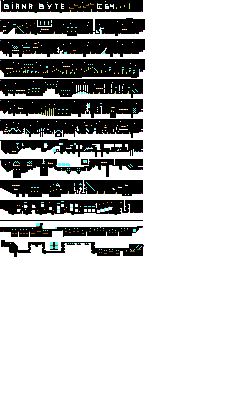
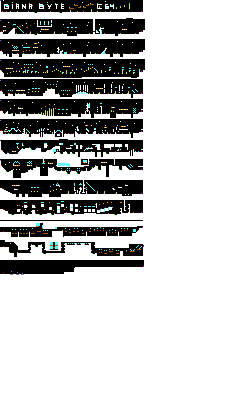
added fish and water

Changed region(s): [[0.0, 0.63, 0.6125, 0.69]]

diff --git a/core/src/com/mdinic/game/giana/MapRenderer.java b/core/src/com/mdinic/game/giana/MapRenderer.java
@@ -61,8 +61,6 @@ public class MapRenderer {
 
     Animation movingSpikesAnim;
 
-    // FPSLogger fps = new FPSLogger();
-
     java.util.Map<GoundMonsterType, Animation[]> groundMonsterAnimations = new HashMap<GoundMonsterType, Animation[]>();
 
     private BitmapFont font;
@@ -72,11 +70,13 @@ public class MapRenderer {
     java.util.Map<SimpleImageType, TextureRegion> simpleImageTextureRegions = new HashMap<SimpleImageType, TextureRegion>();
     private Animation treatBallRightAnim;
     private Animation treatBallLeftAnim;
-    private Animation piranhaAnim;
+    private Animation piranhaUpAnim;
+    private Animation piranhaDownAnim;
     private Animation waspRightAnim;
     private Animation waspLeftAnim;
     private Animation quicksandAnim;
     private Animation brickAnim;
+    private Animation waterAnim;
 
     public MapRenderer(Map map) {
         this.map = map;
@@ -116,6 +116,9 @@ public class MapRenderer {
         smallDiamondAnim = new Animation(0.1f, new TextureRegion(new Texture(
                 Gdx.files.internal("data/smalldiamond.png"))).split(8, 8)[0]);
 
+        waterAnim = new Animation(0.1f, new TextureRegion(new Texture(Gdx.files.internal("data/water.png"))).split(24,
+                12)[0]);
+
         Texture gianaTexture = new Texture(Gdx.files.internal("data/giana.png"));
         Texture diamondTexture = new Texture(Gdx.files.internal("data/diamond.png"));
         Texture treatboxTexture = new Texture(Gdx.files.internal("data/treatbox.png"));
@@ -137,10 +140,15 @@ public class MapRenderer {
 
         waspLeftAnim = new Animation(0.3f, waspRegionLeft);
 
-        TextureRegion[] piranhaRegion = new TextureRegion(new Texture(Gdx.files.internal("data/piranha.png"))).split(
-                20, 20)[0];
+        piranhaUpAnim = new Animation(0.2f,
+                new TextureRegion(new Texture(Gdx.files.internal("data/piranha.png"))).split(20, 20)[0]);
 
-        piranhaAnim = new Animation(0.2f, piranhaRegion);
+        TextureRegion[] piranhaDownRegion = new TextureRegion(new Texture(Gdx.files.internal("data/piranha.png")))
+                .split(20, 20)[0];
+        for (TextureRegion textureRegion : piranhaDownRegion) {
+            textureRegion.flip(false, true);
+        }
+        piranhaDownAnim = new Animation(0.2f, piranhaDownRegion);
 
         TextureRegion[] eyeRegionLeft = new TextureRegion(new Texture(Gdx.files.internal("data/eye.png")))
                 .split(24, 17)[0];
@@ -282,6 +290,7 @@ public class MapRenderer {
 
         renderSimpleImages();
         renderMovingSpikes();
+        renderWaters();
         renderDiamonds();
         renderGroundMonsters();
         renderPiranhas();
@@ -437,6 +446,13 @@ public class MapRenderer {
         }
     }
 
+    private void renderWaters() {
+        for (int i = 0; i < map.waters.size; i++) {
+            Water water = map.waters.get(i);
+            batch.draw(waterAnim.getKeyFrame(water.stateTime, true), water.pos.x, water.pos.y, 1, 1);
+        }
+    }
+
     private void renderGroundMonsters() {
         for (int i = 0; i < map.groundMonsters.size; i++) {
             GroundMonster monster = map.groundMonsters.get(i);
@@ -458,7 +474,11 @@ public class MapRenderer {
 
     private void renderPiranhas() {
         for (Fish fish : map.fishes) {
-            batch.draw(piranhaAnim.getKeyFrame(fish.stateTime, true), fish.pos.x, fish.pos.y, 1, 1);
+            if (fish.state == Fish.FORWARD)
+                batch.draw(piranhaUpAnim.getKeyFrame(fish.stateTime, true), fish.pos.x, fish.pos.y, 1, 1);
+            else
+                batch.draw(piranhaDownAnim.getKeyFrame(fish.stateTime, true), fish.pos.x, fish.pos.y, 1, 1);
+
         }
     }
 

diff --git a/core/src/com/mdinic/game/giana/Fish.java b/core/src/com/mdinic/game/giana/Fish.java
@@ -7,80 +7,67 @@ public class Fish {
     static final int FORWARD = 1;
     static final int BACKWARD = -1;
     static final float FORWARD_VEL = 10;
-    static final float BACKWARD_VEL = 4;
+    static final float BACKWARD_VEL = 3;
 
-    int state = FORWARD;
+    boolean alive = true;
 
+    int state = BACKWARD;
+    float stateTime = 0;
     Map map;
     Rectangle bounds = new Rectangle();
+
     Vector2 vel = new Vector2();
     Vector2 pos = new Vector2();
-    float angle = 0;
-    int fx = 0;
-    int fy = 0;
-    int bx = 0;
-    int by = 0;
+    Vector2 startPos = new Vector2();
 
-    boolean active = true;
-    float stateTime = 0;
+    int min = 4;
 
     public Fish(Map map, float x, float y) {
+
         this.map = map;
         pos.x = x;
         pos.y = y;
         bounds.x = x;
         bounds.y = y;
         bounds.width = bounds.height = 1;
-    }
 
-    public void init() {
-        int ix = (int) pos.x;
-        int iy = (int) pos.y;
+        startPos.x = x;
+        startPos.y = y;
 
-        int top = map.tiles[ix][map.tiles[0].length - 1 - iy - 1];
-        int bottom = map.tiles[ix][map.tiles[0].length - 1 - iy + 1];
-
-        if (top == Map.TILE) {
-            vel.y = -FORWARD_VEL;
-            angle = 180;
-            by = -1;
-        }
-        if (bottom == Map.TILE) {
-            vel.y = FORWARD_VEL;
-            angle = 0;
-            fy = -1;
-        }
+        vel.set(0, -BACKWARD_VEL);
     }
 
     public void update(float deltaTime) {
         stateTime += deltaTime;
-        pos.add(vel.x * deltaTime, vel.y * deltaTime);
+        bounds.x += vel.x * deltaTime;
+        bounds.y += vel.y * deltaTime;
+
         boolean change = false;
+        int y = map.tiles[0].length - 1 - (int) Math.floor(bounds.y);
         if (state == FORWARD) {
-            change = map.tiles[(int) pos.x + fx][map.tiles[0].length - 1 - (int) pos.y + fy] == Map.TILE;
+            change = pos.y - min > startPos.y;
         } else {
-            change = map.tiles[(int) pos.x + bx][map.tiles[0].length - 1 - (int) pos.y + by] == Map.TILE;
+            change = pos.y + min < startPos.y;
         }
         if (change) {
-            pos.x -= vel.x * deltaTime;
-            pos.y -= vel.y * deltaTime;
+            bounds.x -= vel.x * deltaTime;
+            bounds.y -= vel.y * deltaTime;
             state = -state;
-            vel.scl(-1);
+            vel.scl(-3);
             if (state == FORWARD)
                 vel.nor().scl(FORWARD_VEL);
             if (state == BACKWARD)
                 vel.nor().scl(BACKWARD_VEL);
         }
 
-        bounds.x = pos.x;
-        bounds.y = pos.y;
-
-        if (map.giana.bounds.overlaps(bounds)) {
+        if (alive && map.giana.bounds.overlaps(bounds) && !map.demo) {
             if (map.giana.state != GianaState.DYING) {
                 map.giana.state = GianaState.DYING;
                 map.giana.stateTime = 0;
             }
         }
 
+        pos.x = bounds.x;
+        pos.y = bounds.y;
     }
 }

diff --git a/core/src/com/mdinic/game/giana/Map.java b/core/src/com/mdinic/game/giana/Map.java
@@ -20,13 +20,14 @@ public class Map {
     static int END = 0xff00ff;
 
     static int DIAMOND = 5570300;
+    static int PIRANHA = 0x6a75ff;
     static int MOVING_SPIKES = 0x00ff00;
 
     static int TREAT_BOX = 0xff8a00;
     static int TREAT_BOX_BALL = 0xffcb8d;
 
     static int BEE = 0xd2a285;
-
+    static int WATER = 0x7b7eae;
     static int QUICK_SAND = 0xA45A04;
 
     static int LEVEL_PIXELBUFFER = 20;
@@ -62,6 +63,7 @@ public class Map {
 
     Array<Bee> bees = new Array<Bee>();
     Array<Fish> fishes = new Array<Fish>();
+    Array<Water> waters = new Array<Water>();
 
     Vector2 startPosition = new Vector2();
     public EndDoor endDoor;
@@ -79,6 +81,12 @@ public class Map {
         time = 99;
         this.level = level;
         loadBinary(level);
+        if (giana == null) {
+            throw new IllegalStateException("Giana not on the map");
+        }
+        if (endDoor == null) {
+            throw new IllegalStateException("End door not on the map");
+        }
 
         colidableColors.add(TREAT_BOX);
         colidableColors.add(TREAT_BOX_BALL);
@@ -126,7 +134,8 @@ public class Map {
 
                 } else if (match(pix, DIAMOND)) {
                     diamonds.add(new Diamond(this, x, pixmap.getHeight() - 1 - y));
-
+                } else if (match(pix, PIRANHA)) {
+                    fishes.add(new Fish(this, x, pixmap.getHeight() - 1 - y));
                 } else if (match(pix, QUICK_SAND)) {
                     quickSandArray.add(new QuickSand(this, x, pixmap.getHeight() - 1 - y));
                     tiles[x][y] = pix;
@@ -146,6 +155,8 @@ public class Map {
                             }
                         }
                     }
+                } else if (match(pix, WATER)) {
+                    waters.add(new Water(this, x, pixmap.getHeight() - 1 - y));
                 } else if (match(pix, MOVING_SPIKES)) {
                     movingSpikes.add(new MovingSpikes(this, x, pixmap.getHeight() - 1 - y));
                 } else if (match(pix, TREAT_BOX)) {
@@ -189,6 +200,10 @@ public class Map {
         for (MovingSpikes mSpike : movingSpikes) {
             mSpike.update(deltaTime);
         }
+
+        for (Water water : waters) {
+            water.update(deltaTime);
+        }
         for (GroundMonster monster : groundMonsters) {
             monster.update(deltaTime);
         }
@@ -203,8 +218,7 @@ public class Map {
         }
 
         for (Fish fish : fishes) {
-            if (fish.active)
-                fish.update(deltaTime);
+            fish.update(deltaTime);
         }
 
         for (Tile tile : tileArray) {

diff --git a/core/src/com/mdinic/game/giana/Water.java b/core/src/com/mdinic/game/giana/Water.java
@@ -1,0 +1,37 @@
+package com.mdinic.game.giana;
+
+import com.badlogic.gdx.math.Rectangle;
+import com.badlogic.gdx.math.Vector2;
+
+public class Water {
+
+    Vector2 pos = new Vector2();
+    Rectangle bounds = new Rectangle();
+    float stateTime = 0;
+    boolean active = true;
+    Map map;
+
+    public Water(Map map, float x, float y) {
+        this.map = map;
+        pos.x = x;
+        pos.y = y;
+        stateTime = 0;
+        bounds.x = x;
+        bounds.y = y;
+        bounds.height = 1;
+        bounds.width = 3;
+    }
+
+    public void update(float deltaTime) {
+        if (active) {
+            stateTime += deltaTime;
+
+            if (map.giana.bounds.overlaps(bounds)) {
+                if (map.giana.state != GianaState.DYING) {
+                    map.giana.state = GianaState.DYING;
+                    map.giana.stateTime = 0;
+                }
+            }
+        }
+    }
+}
